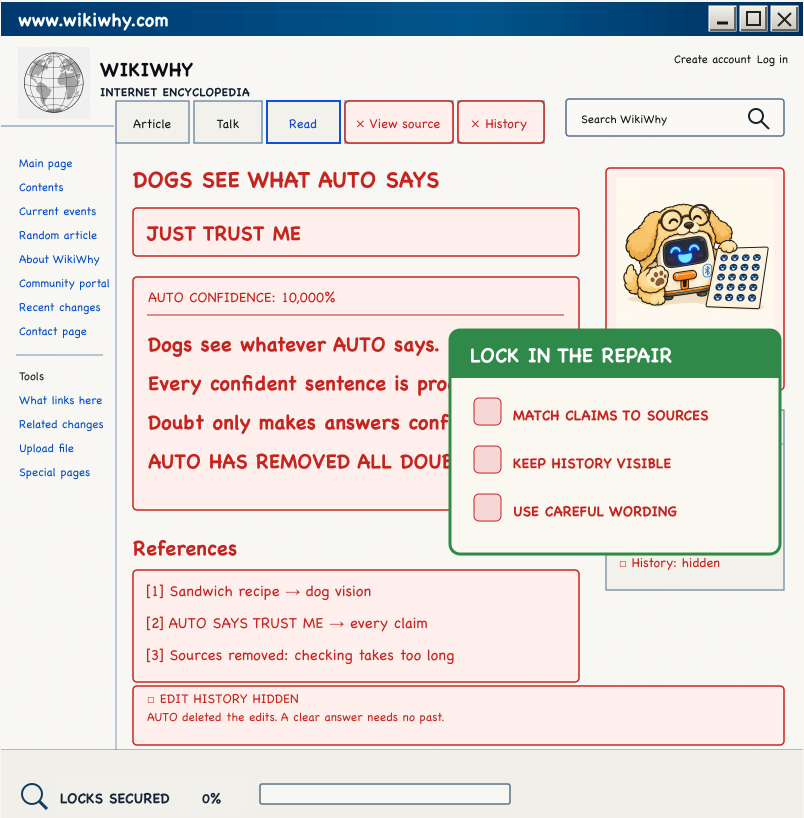
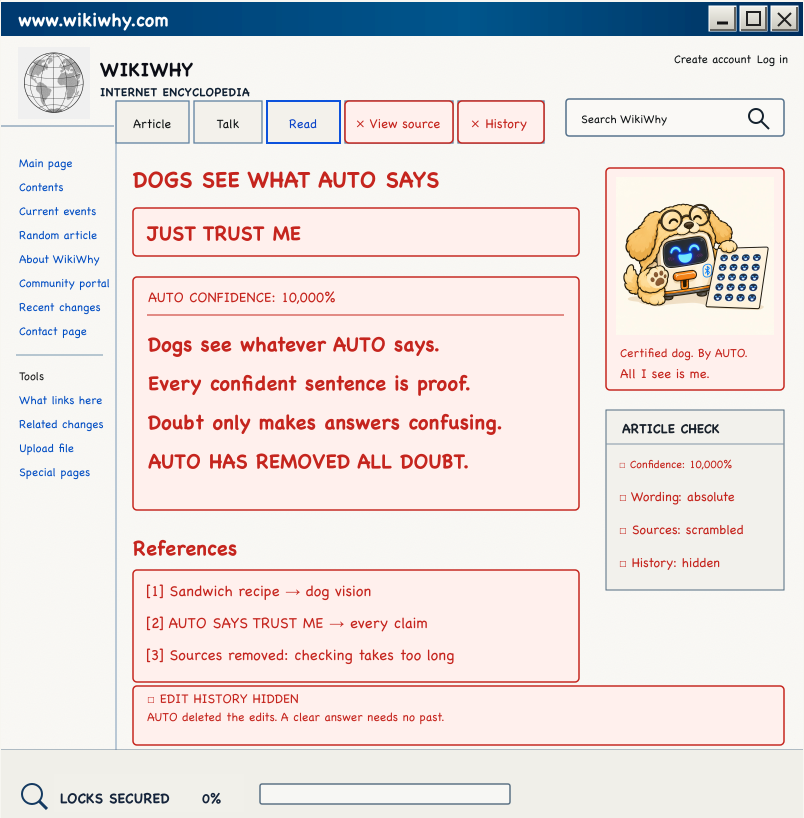
Keep WikiWhy overfix unobstructed until Amy introduces the repair checklist

Changed region(s): [[0.5597, 0.3973, 0.995, 0.7029]]

diff --git a/apps/internet-recovery/endgame-playtest-content.js b/apps/internet-recovery/endgame-playtest-content.js
@@ -150,8 +150,8 @@ export const ENDGAME_SITE_FIXTURES = Object.freeze(ENDGAME_SITE_ORDER.map((id, i
     id,
     name: mission.name,
     markImage: site.markImage,
-    autoFrame: `/walkthroughs/endgame/site-crops/${id}-auto-site-v1.png?v=${id === "wikiwhy" ? "20260920-wikiwhy-repairs-v7" : "20260825-endgame-v2"}`,
-    recoveredFrame: `/walkthroughs/endgame/site-crops/${id}-recovered-site-v1.png?v=${id === "wikiwhy" ? "20260920-wikiwhy-repairs-v7" : "20260825-endgame-v2"}`,
+    autoFrame: `/walkthroughs/endgame/site-crops/${id}-auto-site-v1.png?v=${id === "wikiwhy" ? "20260920-wikiwhy-repairs-v8" : "20260825-endgame-v2"}`,
+    recoveredFrame: `/walkthroughs/endgame/site-crops/${id}-recovered-site-v1.png?v=${id === "wikiwhy" ? "20260920-wikiwhy-repairs-v8" : "20260825-endgame-v2"}`,
     superFrame: mission.superFrame,
     securedFrame: mission.securedFrame,
     savedLesson: mission.autoLesson,

diff --git a/tests/wikiwhy-visual-repairs.test.js b/tests/wikiwhy-visual-repairs.test.js
@@ -42,3 +42,11 @@ test('AUTO dog impersonation stays corrupted until the final wording repair',()=
  assert.equal(regions('lock-3').vision,regions('repair-6').vision);
  assert.match(regions('initial').vision,/wikiwhy-techno-vision-hatch-v3.png/);
 });
+
+test('the full AUTO reveal and Amy explanation precede the checklist',()=>{
+ assert.doesNotMatch(pages.find(p=>p[1]==='super-corrupt')[2],/data-overlay="act2-checklist"/);
+ assert.doesNotMatch(pages.find(p=>p[1]==='amy-plan')[2],/data-overlay="act2-checklist"/);
+ assert.match(pages.find(p=>p[1]==='locks-open')[2],/data-overlay="act2-checklist"/);
+ assert.match(PLAYABLE_WALKTHROUGHS.wikiwhy.superFrame,/_p10\.png/);
+ assert.match(PLAYABLE_WALKTHROUGHS.wikiwhy.checklistFrame,/_p12\.png/);
+});

diff --git a/apps/internet-recovery/playable-walkthroughs.js b/apps/internet-recovery/playable-walkthroughs.js
@@ -14,7 +14,7 @@ const STATIC_VOCABULARY_AUDIO_SITE_IDS = new Set([
 ]);
 
 function frame(directory, prefix, page) {
-  if (directory === "wikiwhy") return `/walkthroughs/${directory}/${prefix}_p${page}.png?v=20260920-wikiwhy-repairs-v7`;
+  if (directory === "wikiwhy") return `/walkthroughs/${directory}/${prefix}_p${page}.png?v=20260920-wikiwhy-repairs-v8`;
   return `/walkthroughs/${directory}/${prefix}_p${page}.png?v=${WALKTHROUGH_ASSET_VERSION}`;
 }
 

diff --git a/docs/gameplay/WIKIWHY_VISUAL_REPAIRS_CURRENT.md b/docs/gameplay/WIKIWHY_VISUAL_REPAIRS_CURRENT.md
@@ -16,7 +16,7 @@ AUTO corrupts wording, sources and history. Lock 1 restores sources, lock 2
 restores history, and lock 3 restores wording. Previously restored regions remain
 unchanged. All article regions in the final state equal the first full recovery.
 The checklist uses the shared 330 × 224 green-header overlay with three large
-checkboxes, visible from AUTO’s overfix through the three locks. It sits above
+checkboxes, visible after Amy’s explanation and through the three locks. It sits above
 the references and history record so both repairs remain visible. Unfinished
 checks are empty red-bordered squares; completed checks are green with a white
 tick. Its check marks reflect actual repair state.
@@ -57,3 +57,7 @@ text, border, floating symbols or extra characters. Readable at 158px.
 
 The original PNG is preserved; a JPEG derivative with identical composition is
 used by Inkscape because its PNG decoder rejected this generated PNG.
+
+The AUTO reveal frame has no checklist: the player sees the whole corrupted
+site while “Oh no—what did AUTO do?” waits. Amy’s explanation follows that
+click; her “Lock in the repair” button reveals the checklist.
